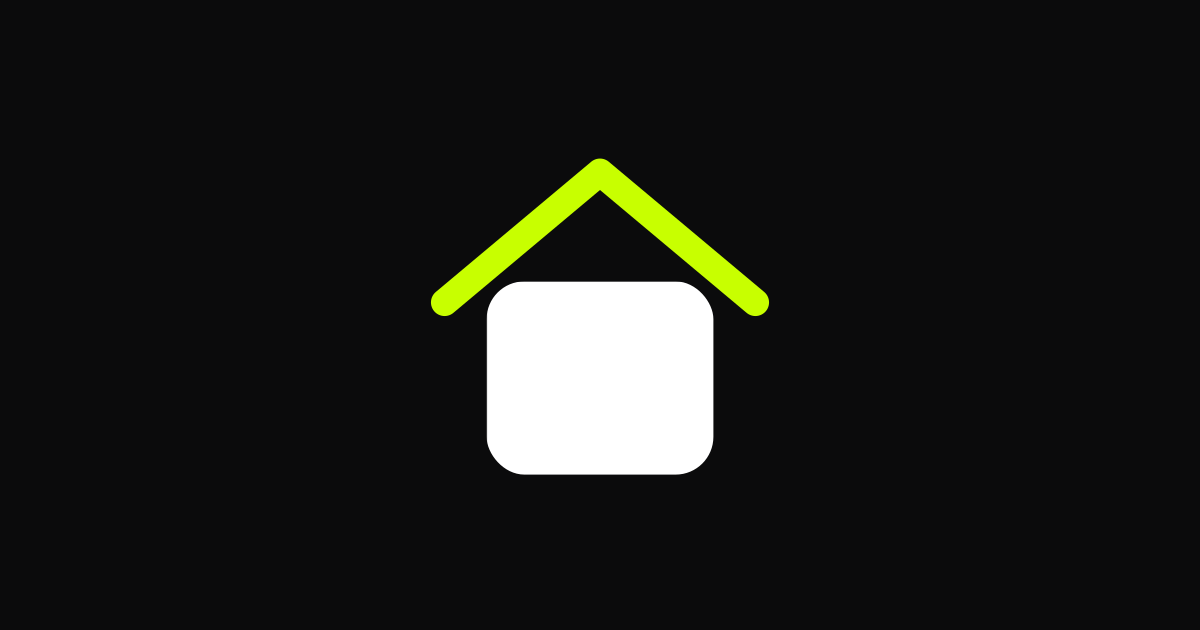
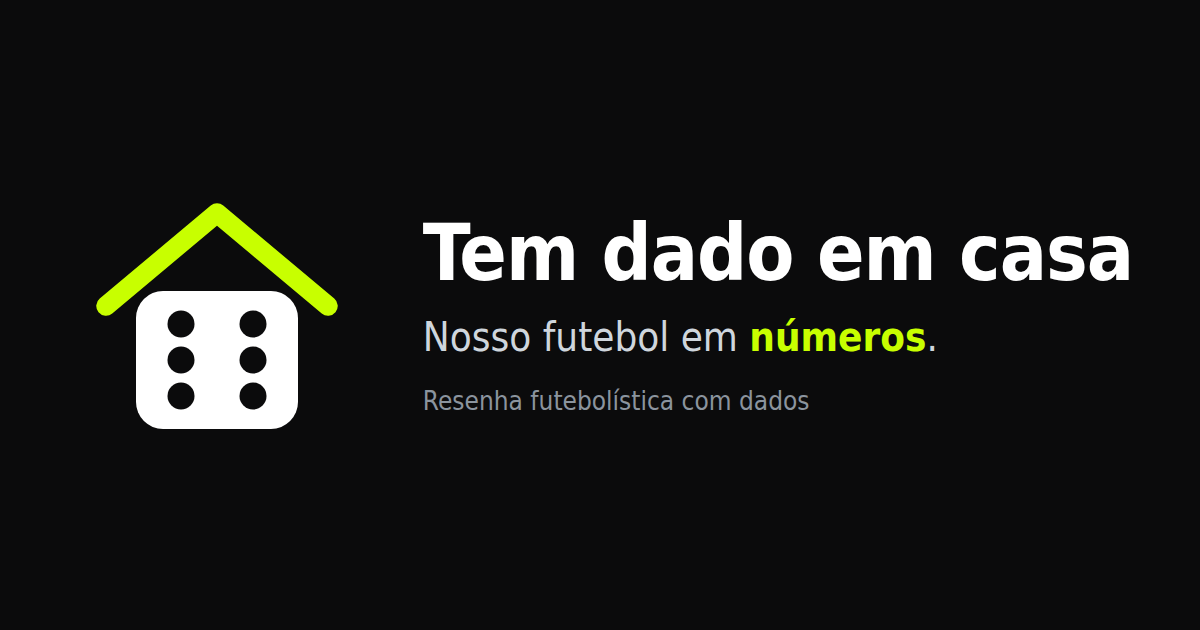
Tema claro, imagem de compartilhamento com o dado e leque de 5 na linha
- og.png, apple-touch-icon e favicon refeitos com os pontos do dado (o render antigo perdia a mascara do SVG); og:image com ?v=2 pro WhatsApp buscar de novo
- Tema claro opcional (botao sol/lua no topo, escolha salva no navegador); escuro continua o padrao
- Rodape sem o GitHub, so LinkedIn
- Tem Time em Casa: tira "draft" do texto do botao e das mensagens; as 5 figurinhas sempre na mesma linha (rolagem lateral no celular, campinho embaixo no tablet)

Claude-Session: https://claude.ai/code/session_01J8QkXGsqRtPrZMSgJsHrUT

Changed region(s): [[0.3392, 0.2413, 0.9558, 0.754], [0.0617, 0.3016, 0.2775, 0.6937]]

diff --git a/app.js b/app.js
@@ -89,7 +89,7 @@ function indexar(r) {
   const mediana = {};
   // ranking, seleção e destaques: só quem passou do piso de minutos. Quem
   // tem nota pelo piso de reputação (recém-chegado, pouco minuto) continua
-  // com carta no elenco e no draft, mas não entra na régua da liga.
+  // com carta no elenco e no Tem Time em Casa, mas não entra na régua da liga.
   const ranqueavel = (j) => typeof j.minutos === "number" && j.minutos >= r.piso_minutos;
   for (const pos of Object.keys(POSICAO)) {
     const grupo = comNota.filter((j) => j.posicao === pos && ranqueavel(j));
@@ -152,7 +152,7 @@ let contadorSvg = 0;
 const CAMISA = "M30 42 L43 36 Q50 43 57 36 L70 42 L90 58 L80 72 L72 66 V116 H28 V66 L20 72 L10 58 Z";
 
 function kitDoTime(time) {
-  // kit explicito (estrangeiros do draft, time do usuario) vem primeiro
+  // kit explicito (estrangeiros do Tem Time em Casa, time do usuario) vem primeiro
   if (time.kit && (time.kit.base || (time.kit.faixas && time.kit.faixas.length))) return time.kit;
   const k = UNIFORMES[time.nome];
   if (k && (k.base || (k.faixas && k.faixas.length))) return k;
@@ -528,7 +528,7 @@ function ligarInclinacao() {
   }, { passive: true });
 }
 
-// --- funcao de cada jogador (Draft e Carreira usam) ------------------------
+// --- funcao de cada jogador (Tem Time em Casa e Prata da Casa usam) ------------------------
 
 const NOME_FUNCAO = { GOL: "Goleiro", LAT: "Lateral", ZAG: "Zagueiro", VOL: "Volante", MC: "Meio-campo", MEI: "Meia", PON: "Ponta", CA: "Centroavante" };
 const FAMILIA = { GOL: ["G"], LAT: ["D"], ZAG: ["D"], VOL: ["M"], MC: ["M"], MEI: ["M"], PON: ["F", "M"], CA: ["F"] };
@@ -1159,7 +1159,7 @@ function ligarFicha() {
 
 // Chance fixa por nivel, como envelope de verdade: a maioria sai palha ou
 // madeira, grafeno e quase impossivel. Dentro do nivel, qualquer um.
-// As chances aparecem na pagina: nada de caixa-preta. O Draft usa as mesmas.
+// As chances aparecem na pagina: nada de caixa-preta. O Tem Time em Casa usa as mesmas.
 const CHANCES = { palha: 0.5, madeira: 0.4, tijolo: 0.09, grafeno: 0.01 };
 
 function sortear(r) {
@@ -1392,7 +1392,7 @@ function ligarChips(seletor, chave, aoMudar) {
 
 // --- abertura: os dois minigames ---------------------------------------------
 
-// Draft: um leque com tres cartas reais (as melhores de posicoes diferentes).
+// Tem Time em Casa: um leque com tres cartas reais (as melhores de posicoes diferentes).
 // Carreira: a sua carta crescendo, de casa de palha aos 16 a casa de concreto aos 29.
 function mostrarAbertura(r) {
   const vd = document.getElementById("visual-draft"), vc = document.getElementById("visual-carreira");

diff --git a/estilo.css b/estilo.css
@@ -932,3 +932,51 @@ select, input {
   .abertura .jogos .jogo-visual { height: 250px; }
   .abertura .jogos .leque-carta { width: 140px; }
 }
+
+/* --- botao de tema -------------------------------------------------------- */
+.topo { gap: 1rem; }
+.menu { margin-left: auto; }
+.tema-botao {
+  flex: none; display: grid; place-items: center; width: 2.2rem; height: 2.2rem; padding: 0;
+  border-radius: 50%; border: 1px solid var(--borda); background: var(--fundo-cartao); color: var(--texto-fraco); cursor: pointer;
+}
+.tema-botao:hover { color: var(--texto); border-color: var(--texto-fraco); }
+.tema-botao svg { width: 1.1rem; height: 1.1rem; fill: none; stroke: currentColor; stroke-width: 2; stroke-linecap: round; }
+.tema-lua path { fill: currentColor; stroke: none; }
+.tema-sol { display: none; }
+:root[data-tema="claro"] .tema-sol { display: block; }
+:root[data-tema="claro"] .tema-lua { display: none; }
+
+/* --- tema claro ------------------------------------------------------------
+   As cartas, o campo e o envelope continuam escuros: sao objetos, nao pagina. */
+:root[data-tema="claro"] {
+  --fundo: #f5f6f3;
+  --fundo-cartao: #ffffff;
+  --fundo-alto: #eceee8;
+  --borda: #d5d9d0;
+  --texto: #15181c;
+  --texto-fraco: #5a6270;
+  --canal: #4a7d00;
+  --canal-vivo: #c8ff00;
+  --rival: #0a6fa8;
+  color-scheme: light;
+}
+:root[data-tema="claro"] .topo { background: rgba(245, 246, 243, 0.9); }
+/* fundos cheios de verde voltam pro lima da marca, com texto escuro */
+:root[data-tema="claro"] .botao-primario,
+:root[data-tema="claro"] .chip[aria-pressed="true"],
+:root[data-tema="claro"] .fato-destaque,
+:root[data-tema="claro"] .passos li[aria-current="step"],
+:root[data-tema="claro"] .pos-botao.ativo,
+:root[data-tema="claro"] .resultado-selo.r-v { background: var(--canal-vivo); border-color: #9ccc00; color: #111; }
+:root[data-tema="claro"] .combo-opcao:hover,
+:root[data-tema="claro"] .combo-opcao[aria-selected="true"],
+:root[data-tema="claro"] .atributo-trilho,
+:root[data-tema="claro"] .proposta-chance { background: rgba(0, 0, 0, 0.07); }
+:root[data-tema="claro"] .estrelas i { background: rgba(0, 0, 0, 0.14); }
+:root[data-tema="claro"] .estrelas i.meia { background: linear-gradient(90deg, #f2c230 50%, rgba(0, 0, 0, 0.14) 50%); }
+:root[data-tema="claro"] .pen-bola.gol { background: #15181c; }
+:root[data-tema="claro"] .tabela tr.eu td,
+:root[data-tema="claro"] .rodada-jogo.eu { background: rgba(120, 180, 0, 0.12); }
+:root[data-tema="claro"] .barra { background: linear-gradient(90deg, rgba(74, 125, 0, 0.45), var(--canal)); }
+:root[data-tema="claro"] .avatar { content: url("img/simbolo-claro.svg"); }

diff --git a/draft.css b/draft.css
@@ -67,7 +67,7 @@ a.marca { text-decoration: none; }
 .ajustes .botao:disabled { opacity: 0.4; cursor: not-allowed; }
 
 /* --- 2. gramado e leque ----------------------------------------------------------- */
-.draft-grade { display: grid; grid-template-columns: minmax(260px, 360px) minmax(0, 1fr); gap: 1.8rem; align-items: start; }
+.draft-grade { display: grid; grid-template-columns: minmax(220px, 300px) minmax(0, 1fr); gap: 1.8rem; align-items: start; }
 .gramado {
   position: relative;
   width: 100%;
@@ -119,7 +119,7 @@ a.marca { text-decoration: none; }
 .vaga-ativa .vaga-vazia { border-color: var(--canal); color: var(--canal); animation: pulsar 1.2s ease-in-out infinite; }
 @keyframes pulsar { 50% { box-shadow: 0 0 0 6px rgba(200, 255, 0, 0.25); } }
 
-.leque { display: grid; grid-template-columns: repeat(auto-fill, minmax(138px, 1fr)); gap: 0.9rem 0.8rem; margin-top: 1rem; }
+.leque { display: grid; grid-template-columns: repeat(5, minmax(0, 1fr)); gap: 0.9rem 0.7rem; margin-top: 1rem; }
 .opcao {
   display: grid;
   gap: 0.35rem;
@@ -258,7 +258,10 @@ a.marca { text-decoration: none; }
   .gramado-resumo { max-width: 320px; }
 }
 @media (max-width: 520px) {
-  .leque { grid-template-columns: repeat(2, minmax(0, 1fr)); }
+  /* celular: os 5 continuam na mesma linha, com rolagem lateral */
+  .leque { grid-template-columns: none; grid-auto-flow: column; grid-auto-columns: 42%; overflow-x: auto;
+    scroll-snap-type: x mandatory; padding: 0.4rem 0.2rem 0.8rem; margin-inline: -0.2rem; scrollbar-width: thin; }
+  .leque .opcao { scroll-snap-align: start; }
   .placar-camisa svg { width: 54px; }
   .placar-numeros { font-size: 2.6rem; }
 }
@@ -553,4 +556,11 @@ body.simulando .cal-dia { pointer-events: none; }
   .controles-jogo:not(.controles-longos) #proximo { grid-column: 1 / -1; }
   .controles-longos { display: grid; grid-template-columns: minmax(0, 1fr) auto; align-items: end; }
   .controles-longos .controles-nota { grid-column: 1 / -1; }
+}
+
+/* tablet: campinho vai pra baixo e os 5 cabem grandes na linha */
+@media (max-width: 1000px) {
+  .draft-grade { grid-template-columns: minmax(0, 1fr); }
+  .draft-grade .gramado { position: relative; top: auto; width: 100%; max-width: 240px; margin: 0 auto; }
+  .draft-grade .draft-lado { order: -1; }
 }

diff --git a/tem-time-em-casa.html b/tem-time-em-casa.html
@@ -13,8 +13,9 @@
   <link rel="preconnect" href="https://fonts.googleapis.com">
   <link rel="preconnect" href="https://fonts.gstatic.com" crossorigin>
   <link href="https://fonts.googleapis.com/css2?family=Barlow+Condensed:wght@600;700;800&family=Inter:wght@400;600;700;800&display=swap" rel="stylesheet">
-  <link rel="stylesheet" href="estilo.css?v=2026-09-24r">
-  <link rel="stylesheet" href="draft.css?v=2026-09-24r">
+  <script src="tema.js?v=2026-09-24s"></script>
+  <link rel="stylesheet" href="estilo.css?v=2026-09-24s">
+  <link rel="stylesheet" href="draft.css?v=2026-09-24s">
 </head>
 <body>
   <header class="topo">
@@ -86,7 +87,7 @@
       <button class="botao botao-primario" id="comecar-draft" type="button" disabled>Escolha quem sai da Série A</button>
     </section>
 
-    <!-- 2. draft -->
+    <!-- 2. figurinhas -->
     <section class="tela" id="tela-draft" aria-labelledby="t-draft" hidden>
       <div class="draft-grade">
         <div class="gramado" id="gramado" aria-label="Seu time"></div>
@@ -177,11 +178,11 @@
         <a href="https://www.tiktok.com/@temdadoemcasafc" target="_blank" rel="noopener">TikTok</a>
       </nav>
     </div>
-    <p class="rodape-autor">Site, dados e minigames feitos por <a href="https://www.linkedin.com/in/breno-sayao/" target="_blank" rel="noopener">Breno Sayão</a>, engenheiro de dados · <a href="https://www.linkedin.com/in/breno-sayao/" target="_blank" rel="noopener">LinkedIn</a> · <a href="https://github.com/temdadoemcasa" target="_blank" rel="noopener">GitHub</a></p>
+    <p class="rodape-autor">Site, dados e minigames feitos por <a href="https://www.linkedin.com/in/breno-sayao/" target="_blank" rel="noopener">Breno Sayão</a>, engenheiro de dados · <a href="https://www.linkedin.com/in/breno-sayao/" target="_blank" rel="noopener">LinkedIn</a></p>
   </footer>
 
-  <script src="app.js?v=2026-09-24r"></script>
-  <script src="motor.js?v=2026-09-24r"></script>
-  <script src="draft.js?v=2026-09-24r"></script>
+  <script src="app.js?v=2026-09-24s"></script>
+  <script src="motor.js?v=2026-09-24s"></script>
+  <script src="draft.js?v=2026-09-24s"></script>
 </body>
 </html>

diff --git a/index.html b/index.html
@@ -9,7 +9,7 @@
   <meta property="og:description" content="Nosso futebol em números. Resenha futebolística com dados.">
   <meta property="og:type" content="website">
   <meta name="theme-color" content="#0b0b0c">
-  <meta property="og:image" content="https://temdadoemcasa.github.io/img/og.png">
+  <meta property="og:image" content="https://temdadoemcasa.github.io/img/og.png?v=2">
   <meta name="twitter:card" content="summary_large_image">
   <link rel="icon" type="image/svg+xml" href="img/simbolo.svg">
   <link rel="icon" type="image/png" sizes="32x32" href="img/favicon-32.png">
@@ -17,7 +17,8 @@
   <link rel="preconnect" href="https://fonts.googleapis.com">
   <link rel="preconnect" href="https://fonts.gstatic.com" crossorigin>
   <link href="https://fonts.googleapis.com/css2?family=Barlow+Condensed:wght@600;700;800&family=Inter:wght@400;600;700;800&display=swap" rel="stylesheet">
-  <link rel="stylesheet" href="estilo.css?v=2026-09-24r">
+  <script src="tema.js?v=2026-09-24s"></script>
+  <link rel="stylesheet" href="estilo.css?v=2026-09-24s">
 </head>
 <body>
   <header class="topo">
@@ -190,9 +191,9 @@
         <a href="https://www.tiktok.com/@temdadoemcasafc" target="_blank" rel="noopener">TikTok</a>
       </nav>
     </div>
-    <p class="rodape-autor">Site, dados e minigames feitos por <a href="https://www.linkedin.com/in/breno-sayao/" target="_blank" rel="noopener">Breno Sayão</a>, engenheiro de dados · <a href="https://www.linkedin.com/in/breno-sayao/" target="_blank" rel="noopener">LinkedIn</a> · <a href="https://github.com/temdadoemcasa" target="_blank" rel="noopener">GitHub</a></p>
+    <p class="rodape-autor">Site, dados e minigames feitos por <a href="https://www.linkedin.com/in/breno-sayao/" target="_blank" rel="noopener">Breno Sayão</a>, engenheiro de dados · <a href="https://www.linkedin.com/in/breno-sayao/" target="_blank" rel="noopener">LinkedIn</a></p>
   </footer>
 
-  <script src="app.js?v=2026-09-24r"></script>
+  <script src="app.js?v=2026-09-24s"></script>
 </body>
 </html>

diff --git a/prata-da-casa.html b/prata-da-casa.html
@@ -13,9 +13,10 @@
   <link rel="preconnect" href="https://fonts.googleapis.com">
   <link rel="preconnect" href="https://fonts.gstatic.com" crossorigin>
   <link href="https://fonts.googleapis.com/css2?family=Barlow+Condensed:wght@600;700;800&family=Inter:wght@400;600;700;800&display=swap" rel="stylesheet">
-  <link rel="stylesheet" href="estilo.css?v=2026-09-24r">
-  <link rel="stylesheet" href="draft.css?v=2026-09-24r">
-  <link rel="stylesheet" href="carreira.css?v=2026-09-24r">
+  <script src="tema.js?v=2026-09-24s"></script>
+  <link rel="stylesheet" href="estilo.css?v=2026-09-24s">
+  <link rel="stylesheet" href="draft.css?v=2026-09-24s">
+  <link rel="stylesheet" href="carreira.css?v=2026-09-24s">
 </head>
 <body>
   <header class="topo">
@@ -166,11 +167,11 @@
         <a href="https://www.tiktok.com/@temdadoemcasafc" target="_blank" rel="noopener">TikTok</a>
       </nav>
     </div>
-    <p class="rodape-autor">Site, dados e minigames feitos por <a href="https://www.linkedin.com/in/breno-sayao/" target="_blank" rel="noopener">Breno Sayão</a>, engenheiro de dados · <a href="https://www.linkedin.com/in/breno-sayao/" target="_blank" rel="noopener">LinkedIn</a> · <a href="https://github.com/temdadoemcasa" target="_blank" rel="noopener">GitHub</a></p>
+    <p class="rodape-autor">Site, dados e minigames feitos por <a href="https://www.linkedin.com/in/breno-sayao/" target="_blank" rel="noopener">Breno Sayão</a>, engenheiro de dados · <a href="https://www.linkedin.com/in/breno-sayao/" target="_blank" rel="noopener">LinkedIn</a></p>
   </footer>
 
-  <script src="app.js?v=2026-09-24r"></script>
-  <script src="motor.js?v=2026-09-24r"></script>
-  <script src="carreira.js?v=2026-09-24r"></script>
+  <script src="app.js?v=2026-09-24s"></script>
+  <script src="motor.js?v=2026-09-24s"></script>
+  <script src="carreira.js?v=2026-09-24s"></script>
 </body>
 </html>

diff --git a/tema.js b/tema.js
@@ -1,0 +1,33 @@
+/* Tema claro/escuro. Roda no <head> pra nao piscar; escuro e o padrao da marca. */
+(function () {
+  var raiz = document.documentElement;
+  var salvo = null;
+  try { salvo = localStorage.getItem("tema"); } catch (e) {}
+  if (salvo === "claro") raiz.setAttribute("data-tema", "claro");
+
+  function rotular(botao) {
+    var claro = raiz.getAttribute("data-tema") === "claro";
+    botao.setAttribute("aria-pressed", claro ? "true" : "false");
+    botao.setAttribute("aria-label", claro ? "Mudar pro tema escuro" : "Mudar pro tema claro");
+    botao.title = botao.getAttribute("aria-label");
+  }
+
+  document.addEventListener("DOMContentLoaded", function () {
+    var topo = document.querySelector(".topo");
+    if (!topo) return;
+    var botao = document.createElement("button");
+    botao.type = "button";
+    botao.className = "tema-botao";
+    botao.innerHTML =
+      '<svg class="tema-sol" viewBox="0 0 24 24" aria-hidden="true"><circle cx="12" cy="12" r="4.5"/><path d="M12 1.8v2.6M12 19.6v2.6M1.8 12h2.6M19.6 12h2.6M4.8 4.8l1.8 1.8M17.4 17.4l1.8 1.8M4.8 19.2l1.8-1.8M17.4 6.6l1.8-1.8"/></svg>' +
+      '<svg class="tema-lua" viewBox="0 0 24 24" aria-hidden="true"><path d="M20.5 14.6A8.6 8.6 0 0 1 9.4 3.5a8.6 8.6 0 1 0 11.1 11.1Z"/></svg>';
+    rotular(botao);
+    botao.addEventListener("click", function () {
+      var claro = raiz.getAttribute("data-tema") !== "claro";
+      if (claro) raiz.setAttribute("data-tema", "claro"); else raiz.removeAttribute("data-tema");
+      try { localStorage.setItem("tema", claro ? "claro" : "escuro"); } catch (e) {}
+      rotular(botao);
+    });
+    topo.appendChild(botao);
+  });
+})();

diff --git a/draft.js b/draft.js
@@ -110,7 +110,7 @@ function montarClubes() {
       for (const o of alvo.children) o.setAttribute("aria-checked", String(o === b));
       D.sai = time.nome;
       $("comecar-draft").disabled = false;
-      $("comecar-draft").textContent = `Tirar o ${time.nome} e começar o draft`;
+      $("comecar-draft").textContent = `Tirar o ${time.nome} e abrir as figurinhas`;
     });
     alvo.append(b);
   }
@@ -1136,5 +1136,5 @@ async function iniciarDraft() {
 
 iniciarDraft().catch((erro) => {
   console.error(erro);
-  $("clubes").replaceChildren(el("div", "vazio", "O draft não carregou agora. Tenta de novo daqui a pouco."));
+  $("clubes").replaceChildren(el("div", "vazio", "O jogo não carregou agora. Tenta de novo daqui a pouco."));
 });

diff --git a/README.md b/README.md
@@ -75,7 +75,7 @@ opcionais:   "numero": "#hex", "gola": "#hex"
 - **Casas (nível):** cortes vêm de `niveis` no retrato ou da posição na liga
   (ver o contrato acima); a legenda das cartas mostra os números da temporada.
 - **Envelope:** chance fixa por casa (palha 55%, madeira 38%, tijolo 6,5%,
-  concreto 1%), mostrada na página; `CHANCES` em `app.js`. O Draft usa a mesma.
+  concreto 1%), mostrada na página; `CHANCES` em `app.js`. O Tem Time em Casa usa a mesma.
 - **Link direto para uma carta:** `…/#jogador-{player_id}` (vai na descrição do vídeo).
 
 ## Atualizar os dados
@@ -100,7 +100,7 @@ Para testar no celular sem aparelho, use um iframe de 390 px: o Edge/Chrome
 headless tem largura mínima de janela (~500 px) e recorta o print, o que
 parece um estouro lateral que não existe.
 
-## Draft (`tem-time-em-casa.html`)
+## Tem Time em Casa (`tem-time-em-casa.html`)
 
 Cria o clube (nome, camisa, esquema), escolhe quem sai da Série A e se joga
 Libertadores ou Sul-Americana; abre 5 figurinhas por vaga (GOL, LD, ZAG, LE,
